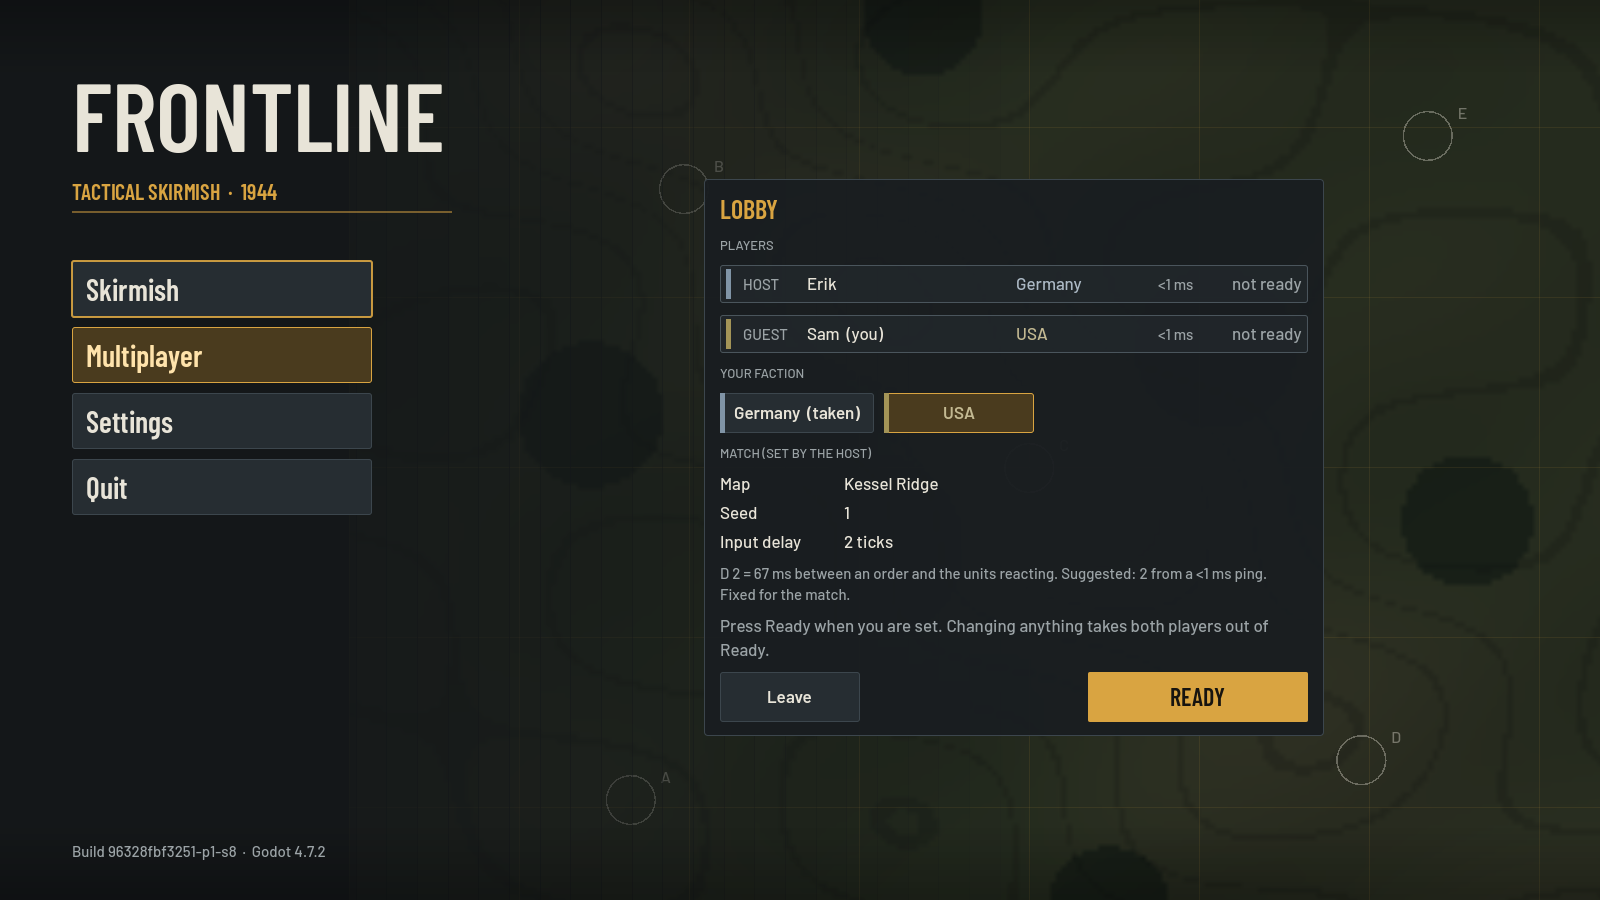
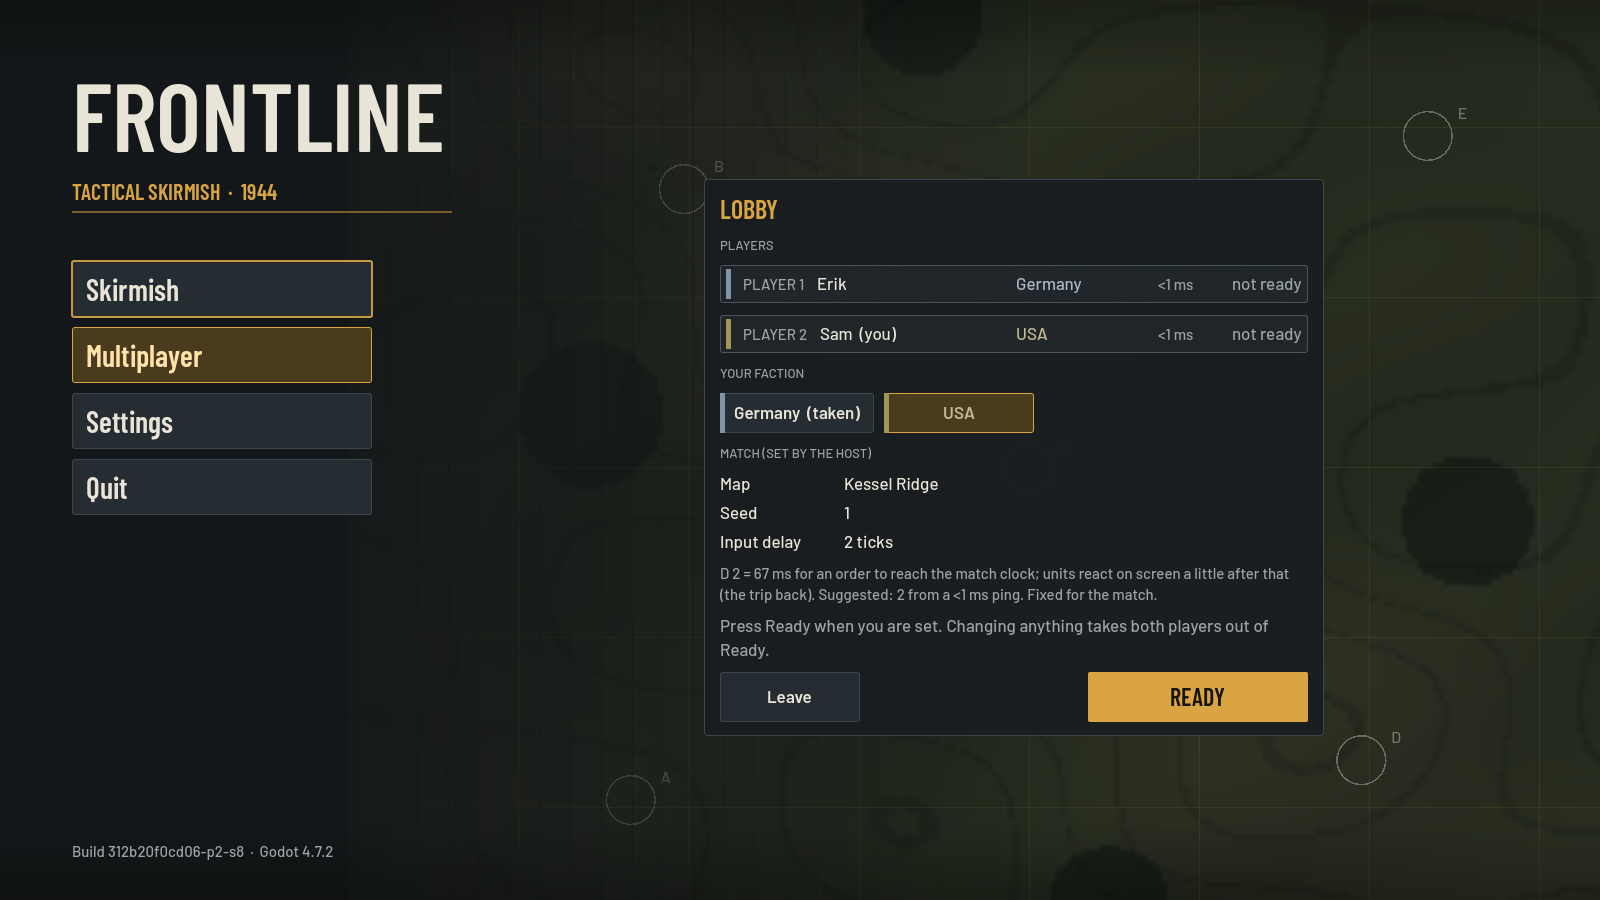
S2 fix pass: bridge host-quit test, docs, slice log, TODO, final screenshots
- net_session test: the host leaving mid-match makes the guest run the
  host's Surrender (fails without the relay's shutdown drain).
- Autoplay lobby shots use example addresses, not this machine's.
- S2 spec: D/playout revision note and the slice log with every run;
  TODO: S2 done, owner checklist (spec items 7-9 and the D decision),
  known issues; API docs for playout, error_detail, host_port.
- Fresh s2-* screenshots from the fix-pass runs.

Changed region(s): [[0.4375, 0.6222, 0.8125, 0.6844], [0.4688, 0.3111, 0.5625, 0.4044], [0.0625, 0.9333, 0.2188, 0.9644]]

diff --git a/crates/godot-bridge/src/net_session.rs b/crates/godot-bridge/src/net_session.rs
@@ -1042,6 +1042,45 @@ mod tests {
         let _ = std::fs::remove_dir_all(&user);
     }
 
+    /// The host leaves mid-match (Leave in the Esc menu): its client says
+    /// `Bye(Quit)` and its relay stops right after. The guest still runs
+    /// the host's `Surrender` and wins, instead of seeing a closed relay.
+    #[test]
+    fn host_leaving_mid_match_surrenders_to_the_guest() {
+        let user = temp_dir("hostquit");
+        let defs = defs();
+        let mut host = session(&defs, "Host", &user);
+        let mut guest = session(&defs, "Guest", &user);
+        lobby(&mut host, &mut guest, 5);
+        let hs = [spawn(&mut host), spawn(&mut guest)];
+        let t0 = Instant::now();
+        while hs[1].counters.ticks.load(Ordering::Relaxed) < 60 {
+            assert!(t0.elapsed() < Duration::from_secs(15), "the match runs");
+            std::thread::sleep(Duration::from_millis(10));
+        }
+        host.leave();
+        let host_slot = 0u8;
+        let surrendered = |h: &MatchHandle| {
+            h.counters.log.lock().unwrap().iter().any(|(_, c)| {
+                c.player.0 == host_slot && c.kind == frontline_sim::CommandKind::Surrender
+            })
+        };
+        let t0 = Instant::now();
+        while !surrendered(&hs[1]) {
+            assert!(
+                t0.elapsed() < Duration::from_secs(5),
+                "the guest never ran the host's surrender"
+            );
+            std::thread::sleep(Duration::from_millis(10));
+        }
+        std::thread::sleep(Duration::from_millis(200));
+        let detail = hs[1].counters.net.lock().unwrap().clone();
+        assert_eq!(detail.disconnect, None, "a win, not a closed relay");
+        guest.leave();
+        drop(hs);
+        let _ = std::fs::remove_dir_all(&user);
+    }
+
     #[test]
     fn lobby_failures_have_reason_codes() {
         let user = temp_dir("lobby");

diff --git a/docs/TODO.md b/docs/TODO.md
@@ -48,6 +48,14 @@ it.
   cooldown or count shown on the button. Write this up as a spec next to
   S1b; the AI should use grenades as well.
 
+- [x] **Two-player multiplayer (S2).** Spec and slice log:
+  `docs/slices/S2-multiplayer.md`. Host or join by IP:port, an in-game
+  relay or `frontline-relay` on a server, lobby, relay-closed lockstep,
+  pause, hash checks, desync dumps and `desync-diff`, 60 s timeout
+  surrender, and a macOS zip (`tools/export_macos.sh`). Built on the
+  spec's (A) defaults; the input delay and playout formula was revised
+  in the fix pass (owner call, see below). Guide:
+  `docs/net/playing-online.md`.
 - [ ] **A more military UI look (owner, 2026-10-31).** "This one looks like
   something from GMod or 'the office'. Way too corporate. The look itself is
   good, just not the right mood." Keep the HUD v2 layout and its
@@ -125,41 +133,66 @@ it.
 - [ ] The fix pass cut the call-in queue from 10 to 5 to match the HUD
   spec. That is a game rule; confirm with the owner.
 
+## S2 owner checklist (needs people or a second network)
+
+- [ ] **One manual match**, two humans with mouse and keyboard, played to
+  victory (spec item 7).
+- [ ] **One match over Tailscale or the VPS relay**, with ping, D, playout
+  and the "late" count from the readout's tooltip written down (item 8).
+  Wired if possible.
+- [ ] **The friend runs the zip on their own Mac** (item 9). Also not done
+  by an agent: a second macOS account on the same Mac (agents may not
+  create accounts) and an Intel Mac.
+- [ ] **Decide the D / playout revision** (`S2-multiplayer.md` "Turns"):
+  D now covers half the round trip and a client playout delay covers the
+  other half. Same click-to-reaction time, almost no stalls, but on very
+  lossy links 5–10 % of orders run a tick or more late. Reverting is one
+  function (`frontline_net::suggest_d`).
+
 ## Known issues found during S2
 
-- [ ] **No exported zip yet.** `tools/export_macos.sh` builds the universal
-  bridge (arm64 + x86_64 with lipo, checked) and stops before the export:
-  the Godot 4.7.2 export templates are not installed, and the official
-  `.tpz` is 1.28 GB, over the ~1 GB the integration stage was allowed to
-  download. Install them (Editor > Manage Export Templates), then run
-  `tools/export_macos.sh --verify`. The export itself, the ad hoc
-  re-signing after adding `mods/ww2` to `Contents/Resources`, and the
-  second-account run are untested.
-- [ ] **Playout buffer too small on jittery links.** `frontline-net-test
-  --seconds 1200 --jitter 40 --drop 0.05`: 0 restamps, hashes agree, but
-  about 16 % of ticks step more than one period late (3,918 and 3,566
-  stalls out of 24,142 ticks). The view lags in bursts; the match stays
-  correct. A client-only adaptive playout delay would fix it without
-  touching determinism. Owner call.
-- [ ] Two windowed instances on one Mac: 10–14 stalls per 3-minute match,
-  almost all in the first minute (match start, the S1b selection tour's
-  screenshots). Headless runs show none. Same family as the S1b windowed
-  step spikes.
-- [ ] App Nap: not hit with both windows visible side by side; the
-  `defaults write ... NSAppSleepDisabled` step from the spec was not run
-  (no persistent defaults). A hidden or minimised instance is untested.
-- [ ] After a host crash the guest waits about 75 s before the disconnect
-  screen (silent relay for 10 s, then the "Reconnecting" countdown; the
-  bridge gives up at 75 s). Correct per the design, but long when the
-  relay died with the host's game.
-- [ ] The match readout's raw `net.state` turns "unstable" 2 s after the
-  match ends (the other side stops sending after its goodbye). The HUD
-  freezes the readout at the end; the bridge value is still misleading for
-  other readers.
+- [ ] **The zip is an "editor runtime" build**, not a template export:
+  the Godot 4.7.2 export templates are not installed (the official
+  `.tpz` is 1.28 GB). `tools/export_macos.sh` falls back to a copy of the
+  Godot editor app with the game packed in (176 MB zip, debug-capable).
+  It runs and plays a net match from the unzipped zip. Install the
+  templates (Editor > Manage Export Templates) and rerun the script for
+  a proper release export; `--templates-only` refuses the fallback.
+- [ ] `frontline-relay` is only type-checked for Linux (as
+  `aarch64-linux-android`) and Windows; no glibc Linux build or run yet
+  (needs `rustup target add x86_64-unknown-linux-gnu` and a linker, or
+  building on the VPS as `playing-online.md` says).
+- [ ] Lossy links now cost restamps instead of stalls: at 10–30 % loss,
+  5–10 % of orders run a tick or more late. At 0–5 % loss: 0–0.4 %.
+- [ ] Two windowed instances on one Mac: about 10 stalls per 3-minute
+  match, all in the first seconds (start-up and the S1b tour's
+  screenshots). Headless runs show none.
+- [ ] App Nap: not hit with both windows visible (partly overlapping);
+  the spec's `defaults write ... NSAppSleepDisabled` was not run (no
+  persistent defaults). A hidden or minimised instance is untested.
+- [ ] After a host **crash** the guest waits about 75 s before the
+  disconnect screen (10 s of silence, then the "Reconnecting" countdown).
+  The texts now say the match is over if the host's game closed, but the
+  wait is still long. A clean host quit is fast: the relay delivers the
+  host's surrender before it shuts down (tested on the relay and in the
+  bridge over real UDP, `host_leaving_mid_match_surrenders_to_the_guest`;
+  not yet seen with a human clicking Leave in Godot).
+- [ ] Hosting again right after leaving joins the old net threads on the
+  main thread: up to about 1.5 s of frozen menu if the guest vanished
+  (it frees the port first). Not measured.
+- [ ] Possible IPv6 issue (unverified, no global IPv6 here): a relay bound
+  to `[::]` may answer from a temporary address, which the client would
+  drop (it only accepts its configured relay address).
+- [ ] The waiting overlay has no "leave now / claim the win" button: the
+  remaining player waits out the 60 s or leaves through the Esc menu.
+- [ ] The pending-order marker is a bare dashed ring; nothing links it to
+  the ordered unit. At D = 2 it lives one or two frames.
+- [ ] `desync-diff --replay` is not built (spec: out of S2). Dumps now
+  always have a checkpoint (tick 0 counts as confirmed).
+- [ ] In two-instance autoplay the S1/S1b shots share file names, so the
+  two instances overwrite each other's shots (test only).
 - [ ] `build_id` is stamped when `crates/net` is rebuilt (HEAD or index
   changes); edits to tracked files without staging do not set `-dirty`
-  until something rebuilds it. `tools/export_macos.sh` refuses a dirty tree
-  unless `--allow-dirty`.
-- [ ] `THIRD_PARTY_NOTICES` not regenerated for `socket2` (from net stage 1).
-- [ ] `relay-protocol.md` does not mention the `Bye(Shutdown)` the relay sends
-  when it stops (net stage 2).
+  until something rebuilds it. `tools/export_macos.sh` refuses a dirty
+  tree unless `--allow-dirty`.
+- [ ] `THIRD_PARTY_NOTICES` not regenerated for `socket2`.

diff --git a/docs/slices/S2-multiplayer.md b/docs/slices/S2-multiplayer.md
@@ -117,9 +117,16 @@ datagram is at most 1,200 bytes.
   `CommandKind`s, with `target_tick = current relay-clock tick + D` (from
   the synced clock, not from the newest bundle) and the next per-player
   `seq`.
-- **D *(proposed)***: the lobby computes `clamp(ceil((p99_rtt + jitter) /
-  period) + 1, 2, 4)` from lobby pings; the `+1` is a one-tick playout
-  buffer. Slot 0 may override it (2–6) before Ready. D is fixed for the
+- **D *(proposed; revised in the fix pass, owner call)***: the lobby
+  computes `clamp(ceil((p99_rtt/2 + jitter) / period), 2, 4)` from lobby
+  pings, and each client steps a tick `P = clamp(ceil((p99_rtt/2 +
+  jitter) / period), 1, 6)` periods after its turn closes (playout). D
+  only has to cover the trip to the relay; the trip back is the playout.
+  The first formula (`ceil((p99_rtt + jitter) / period) + 1` with a
+  fixed one-tick playout) put both trips into D and still stalled
+  whenever the trip back took over a period. Click to reaction stays
+  about the same (D + P ≈ the old D + 1); stalls on jittery links went
+  from 16–67 % of ticks to under 0.2 %. See the slice log. Slot 0 may override it (2–6) before Ready. D is fixed for the
   match. On a LAN, D = 2; on a 60 ms internet path, D = 4.
 - **Relay-closed turns:** the relay closes turn T at `start + (T+1)·period`
   regardless of what arrived. Input whose `target_tick` is already closed
@@ -351,10 +358,11 @@ agent):
 
 ## Design-doc changes to propose (not applied here)
 
-- §2.2 and §10: size D from **P99 RTT plus jitter, plus one playout
-  tick**, not P99 one-way latency. With relay-closed turns the command
-  must reach the relay and the bundle must come back, so RTT is the right
-  measure.
+- §2.2 and §10: size the **total** click-to-step delay from P99 RTT plus
+  jitter, split in two: D (stamp to turn close) covers half the P99 RTT
+  plus jitter, and a client-side playout delay of the same size covers
+  the trip back. (Revision 2 put the whole RTT into D with a one-tick
+  playout; the fix pass measured that it stalls on jittery links.)
 - §10: each bundled command carries its original `target_tick`.
 - §4: transport row reads "UDP (plain in S2; QUIC datagrams from M7)" if
   the owner picks question 1(A).
@@ -406,3 +414,58 @@ Work proceeds on the recommended defaults (marked **A**) until you answer.
 4. **Player timeout.** **(A) Relay-injected `Surrender` after 60 s**
    (recommended) / (B) AI takeover, which needs `SetController` and sim
    state.
+
+## Slice log
+
+**Fix pass (2026-11-01)**, after the netcode-security and
+spec-playability reviews. All runs on the M3 MacBook Air.
+
+- `cargo test --workspace --release`: pass. Clippy `-D warnings` and
+  `cargo fmt --check`: clean. New `crates/net/tests/relay_rules.rs` (6
+  tests, one per review finding; all fail on the pre-fix relay/client).
+- **Soak** (`cargo test -p frontline-net --release -- --ignored`, rough
+  path 15 ms + 0–80 ms jitter, 5 % loss): seeds 1–3, about 36,000 ticks
+  each, 1,199 hash checks per seed, 0 mismatches, 0 lost orders,
+  restamps 0.029 %, 0 %, 0 %; stalls 63/1, 6/2, 0/1 ticks (before the fix
+  pass: about 24,000 of 36,000 on every seed). Passed in 35 s.
+- `frontline-net-test`:
+
+  | Run | D / playout | Restamps | Stalls (ticks late) |
+  |---|---|---|---|
+  | `--jitter 2` | 2 / 1 | 0 of 556 | 0 / 0 |
+  | `--jitter 40` | 2 / 2 | 0 of 556 | 0 / 0 |
+  | `--seconds 1200 --jitter 40 --drop 0.05` (match won at about tick 31,500) | 2 / 2 | 10 of 2,994 (0.33 %) | 27 / 35 (was 3,918 / 3,566 of 24,142 at D = 4) |
+  | same, `--tickets 100000` (full 36,000 ticks) | 2 / 2 | 15 of 3,408 (0.44 %) | 36 / 41 |
+  | 300 s, 30 ms + 0–120 ms, 15 % drop | 4 / 6 and 4 | 44 of 878 (5.0 %) | 4 / 151 of 9,000 (was 99.6 %) |
+  | 300 s, 0–40 ms, 30 % drop | 2 / 2 | 86 of 878 (9.8 %) | 484 / 484 (was 81 %) |
+  | 60 s real UDP, 20 ms + 0–60 ms, 10 % drop (two runs) | 2 / 2 | 4 and 28 of 273 (1.5 %, 10 %) | 52–70 of 1,800 (was 62–67 %) |
+  | 300 s, 30 ms + 0–10 ms | 2 / 2 | 0 of 878 | 0 / 0 |
+
+  Every run: all hashes agree, every order ran exactly once, in order.
+  The lower D trades restamps on lossy links (an order one or more ticks
+  late; 5–10 % of orders at 10–30 % loss) for almost no stalls and 67 ms
+  less lag on every other order; slot 0 can still raise D in the lobby.
+- **Two Godot instances**, 3 minutes, 127.0.0.1: 181 of 181 hashes agree
+  (ticks 30–5,430), both exit 0, D = 2, playout 1, 0 late, 10 stalls each
+  (windowed start-up, as before).
+- **Desync** (`--debug_inject_desync 1000` on the joiner): both stop at
+  tick 1,021 after the mismatch at 1,020, exit 6, dumps complete;
+  `desync-diff` names `stats.commands_applied 22 vs 23` and entity 21's
+  waypoint and nav fields, and prints the dump's desync tick.
+- **Joiner killed**: host waits 60 s, then wins ("Sam lost the connection
+  and timed out."), exit 0. **Host killed**: guest shows "Reconnecting",
+  then the disconnect screen, exit 7.
+- **Export**: no Godot export templates on this Mac, so
+  `tools/export_macos.sh --verify` built the editor-runtime fallback:
+  `build/Frontline-312b20f0cd06-macos.zip`, 176 MB, universal bridge.
+  The verify run shows the menu with the build id; two copies of the
+  unzipped app (quarantine cleared) played a 90 s net match, hashes
+  agree. Not done: a second macOS account (agents may not create
+  accounts), an Intel Mac, a release-template export.
+- `frontline-relay` type-checks for `aarch64-linux-android` (Linux
+  kernel) and Windows (msvc, gnu); a glibc Linux build was not possible
+  (no `x86_64-unknown-linux-gnu` std installed).
+- Sim untouched (`git diff s1b-soldier-control -- crates/sim` is empty).
+  Skirmish seed 1, AI vs AI, 3 threads, 3 runs: final hash
+  `0x86f6991286fe64ed`, P99 0.274–0.276 ms, peak P99 0.329–0.335 ms
+  (S1b: 0.275–0.276 and 0.335–0.337).

diff --git a/godot/docs/net_api.md b/godot/docs/net_api.md
@@ -52,10 +52,12 @@ snapshots from it: it never waits on the network.
   ],
   seed: int, map: String,    # slot 0's choice
   input_delay: int,          # D in ticks (2-6)
-  suggested_delay: int,      # clamp(ceil((p99 RTT + jitter) / tick) + 1, 2, 4)
+  suggested_delay: int,      # clamp(ceil((p99 RTT / 2 + jitter) / tick), 2, 4)
   mismatch: String,          # why Ready was refused (text or reason code), "" if none
   countdown_s: float,        # seconds left while state == "countdown"
   error: String,             # reason code once "disconnected" (see below)
+  error_detail: String,      # more about it ("Their build: … Yours: …"), "" none
+  host_port: int,            # in-game relay port when hosting, 0 when joined
 }
 ```
 
@@ -65,9 +67,10 @@ seed and the map from `status()` and loads `match/match.tscn`.
 
 Reason codes the presenter turns into text (`NetUi.REASONS`; an unknown
 code is shown as given): `build_mismatch`, `content_mismatch`, `protocol`,
-`setup_mismatch`, `full`, `timed_out`, `no_answer`, `connection_lost`,
+`setup_mismatch`, `full`, `started`, `timed_out`, `no_answer`, `connection_lost`,
 `host_left`, `opponent_left`, `left`, `flood`, `relay_closed`,
-`bind_failed`, `bad_address`.
+`bind_failed`, `bad_address`, `content_missing`, `bad_name`. The
+reject codes (`NetUi.REJECT_CODES`) title the page "CAN'T JOIN".
 
 ## Match calls
 
@@ -113,8 +116,11 @@ Exit codes: 0 match over, 3 a required shot missing, 4 the lobby did not
 start within 90 s (or host/join failed), 6 desync (after the banner shot,
 once the dump is written), 7 disconnected (after the disconnect shot).
 
-Two instances side by side on one Mac (what the integration ran; the
-screen is 3420 px wide, so two 1600x900 windows fit):
+Two instances on one Mac. The integration ran two 1600x900 windows side
+by side on a 3420 px screen; the S2 fix pass used 1280x720 windows at
+`--position 0,40` and `--position 1180,500` (partly overlapping, both
+visible, so App Nap does not throttle either) on a 2560 px screen. The
+shots come out 1600x900 either way:
 
 ```
 G=~/Applications/Godot.app/Contents/MacOS/Godot

diff --git a/godot/docs/match_state.md b/godot/docs/match_state.md
@@ -373,9 +373,11 @@ net: {
   ping_ms: float,          # round trip to the relay, -1 unknown
   input_delay: int,        # D in ticks
   delay_ms: int,           # D in ms
-  restamps: int,           # own commands moved to a later turn
+  playout: int,            # ticks this client shows a tick after its turn closes
+  restamps: int,           # own commands moved to a later turn ("late")
   stalls: int,             # ticks this client waited for a bundle
   state: String,           # "ok" | "unstable" | "waiting" | "paused" | "desync"
+                           # (reads "ok" once the match is over)
   paused_by: String,       # player name while "paused"
   paused_slot: int,        # opt; slot that paused (else matched by name)
   waiting_for: String,     # player name while "waiting"
